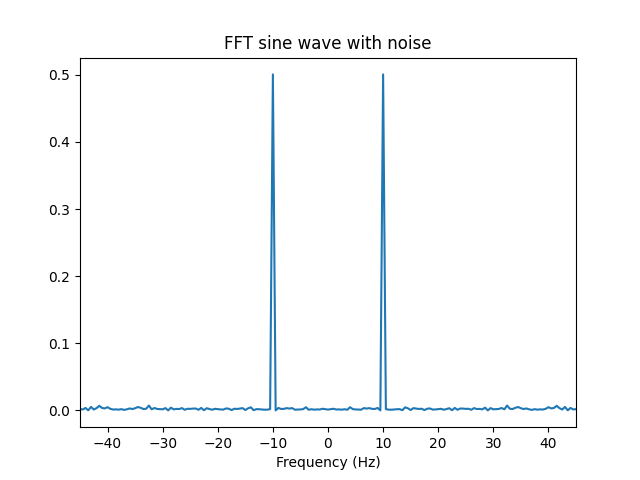
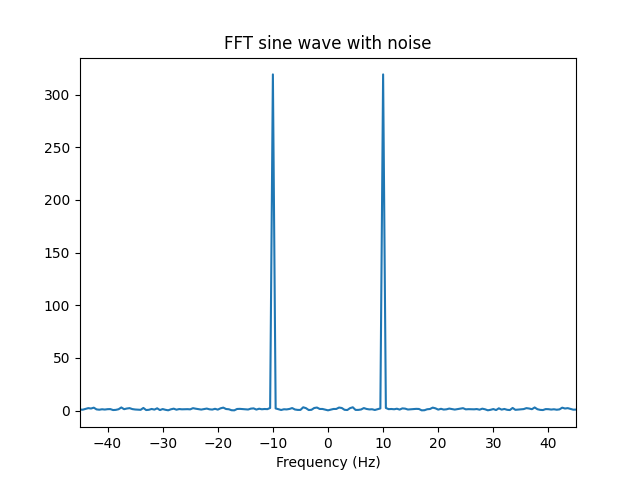
saving

diff --git a/filter_example.py b/filter_example.py
@@ -37,7 +37,7 @@ def calculate_fft(sampled_wave, sampling_frequency, fft_size):
 
     dft = np.fft.fft(sampled_wave, fft_size)
     dft_real_im = np.fft.fftshift(dft)
-    fft_values = abs(dft_real_im) / fft_size
+    fft_values = abs(dft_real_im) 
 
     frequency_resolution = sampling_frequency / fft_size
     frequencies_to_plot = np.arange(-(fft_size * frequency_resolution) // 2, (fft_size * frequency_resolution) // 2, \
@@ -62,7 +62,7 @@ time_duration = 2 #s
 center_frequency = 10 #Hz
 cutoff_frequency = 15 #Hz
 snr_dB = 20 #dB
-fft_size = 640
+fft_size = 640 # Might be good to use sampling_frequency*time_duration
 
 
 (time_range_wave, sampled_wave) = generate_wave(sampling_frequency, time_duration, center_frequency, snr_dB)
